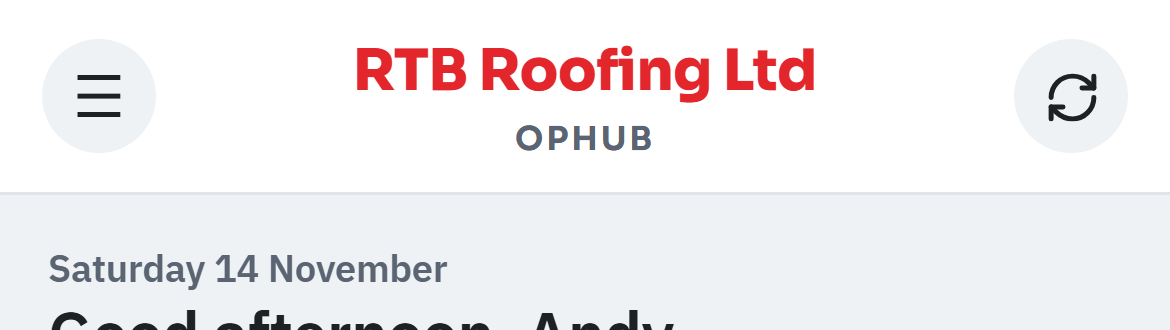
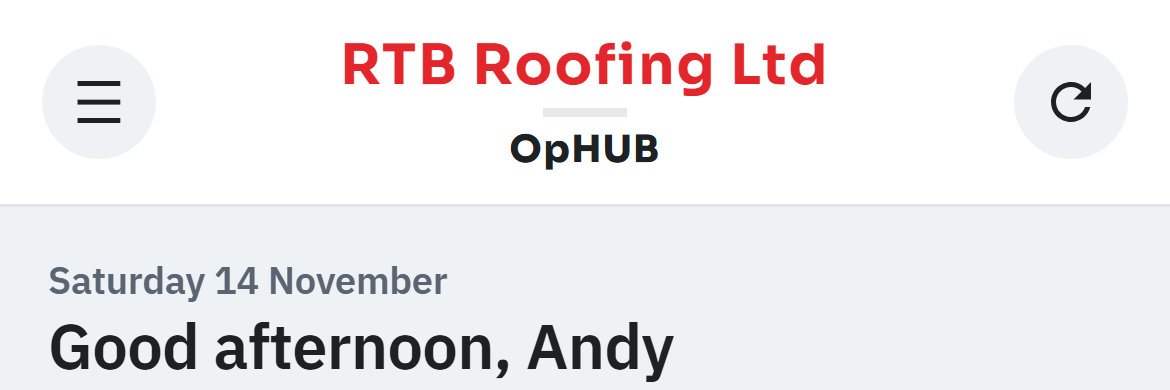
Home's header as the old app (Andy, 14 Nov: "Or design as per old app"). The company name in Sora 700 in its colour, a short grey line, then "OpHUB" in dark Sora 800, as the old app's home header (130 shell centerHeader), instead of "OPHUB" in grey capitals; the refresh button uses the old app's ref
Claude-Session: https://claude.ai/code/session_012KhfNvBEbifMJmPdX7yZfp

diff --git a/app-native/src/components/AppBar.tsx b/app-native/src/components/AppBar.tsx
@@ -192,8 +192,13 @@ export function AppBar({ title, onBack, home, right, noHistory }: { title?: stri
             )}
           </View>
           <View style={{ flex: 1, alignItems: fin ? 'flex-start' : 'center', minWidth: 0 }}>
-            <Pressable disabled={!titleGo} onPress={() => { if (titleGo) router.navigate(titleGo as never); }} accessibilityRole={titleGo ? 'link' : undefined} style={noSelect}><Text numberOfLines={1} style={[brand(home ? 800 : 700), { fontSize: fin ? 21 : desk ? 22.8 : 19, color: home ? t.brand1 : fin ? '#111827' : base.ink, letterSpacing: -0.2 }]}>{main}</Text></Pressable>
-            {!!sub && <Pressable disabled={!copyable} onPress={async () => { if (await copyAddress(copyLine)) { setCopied(true); setTimeout(() => setCopied(false), 1300); } }} accessibilityRole={copyable ? 'button' : undefined} accessibilityHint={copyable ? 'Copies the site name and address' : undefined} style={noSelect}><Text numberOfLines={1} style={[home ? brand(700) : {}, { fontSize: home ? 11 : 12.5, color: home ? base.slate : '#6b7280', marginTop: 3, letterSpacing: home ? 1 : 0, textTransform: home ? 'uppercase' : 'none' }]}>{sub}</Text></Pressable>}
+            <Pressable disabled={!titleGo} onPress={() => { if (titleGo) router.navigate(titleGo as never); }} accessibilityRole={titleGo ? 'link' : undefined} style={noSelect}><Text numberOfLines={1} style={[brand(700), home
+              // Home as the old app (130 shell centerHeader; Andy, 14 Nov 2026): the company name in Sora 700 in its colour,
+              // a short grey line, then "OpHUB" in dark Sora 800 (not grey capitals).
+              ? { fontSize: desk ? 21.4 : 18.5, color: t.brand1, letterSpacing: 0.7 }
+              : { fontSize: fin ? 21 : desk ? 22.8 : 19, color: fin ? '#111827' : base.ink, letterSpacing: -0.2 }]}>{main}</Text></Pressable>
+            {home && <View style={{ width: 28, height: 2.5, backgroundColor: '#E6E8EC', marginTop: 3, marginBottom: 2 }} />}
+            {!!sub && <Pressable disabled={!copyable} onPress={async () => { if (await copyAddress(copyLine)) { setCopied(true); setTimeout(() => setCopied(false), 1300); } }} accessibilityRole={copyable ? 'button' : undefined} accessibilityHint={copyable ? 'Copies the site name and address' : undefined} style={noSelect}><Text numberOfLines={1} style={home ? [brand(800), { fontSize: desk ? 14.25 : 12.5, color: base.ink, marginTop: 1, letterSpacing: 0.5 }] : { fontSize: 12.5, color: '#6b7280', marginTop: 3 }}>{sub}</Text></Pressable>}
             {copied && <View pointerEvents="none" style={{ position: 'absolute', bottom: -8, alignSelf: 'center', backgroundColor: base.ink, borderRadius: 10, paddingHorizontal: 9, paddingVertical: 2, zIndex: 5 }}><Text style={{ color: '#fff', fontSize: 11, fontWeight: '600' }}>Copied</Text></View>}
           </View>
           <View style={{ minWidth: sideW, alignItems: 'flex-end' }}>

diff --git a/tools/test-harness/refresh-check.js b/tools/test-harness/refresh-check.js
@@ -1,5 +1,6 @@
 // Home's refresh button, top right (Andy, 14 Nov 2026: "Does the refresh button top right work. Also make it a better
-// symbol"): the two-arrow icon (not the ↻ character), it turns while it works, it fetches the screen again (new data
+// symbol" / "Or design as per old app"): the header as the old app (the company name, a short line, then "OpHUB" in
+// dark bold), the old app's refresh arrow (not the ↻ character), it turns while it works, it fetches the screen again (new data
 // shows), and on the web link it reloads the page when a newer version has gone live, but not when it hasn't.
 // Touch phone, fake database. node refresh-check.js
 const {chromium, makeContext} = require('./harness');
@@ -20,10 +21,15 @@ const check = (ok, what) => { console.log((ok ? 'PASS ' : 'FAIL ') + what); if (
 
   const btn = page.locator('[aria-label="Refresh"] >> visible=true').first();
   check(await btn.count() === 1, 'home: the refresh button is there, top right');
-  check(await btn.locator('svg').count() === 1 && !(await btn.innerText()).includes('↻'), 'it is the two-arrow icon, not the ↻ character');
+  const d = (await btn.locator('path').first().getAttribute('d')) || '';
+  check(await btn.locator('svg').count() === 1 && !(await btn.innerText()).includes('↻') && d.startsWith('M17.65 6.35'), 'it is the old app\'s refresh arrow, not the ↻ character');
+  const bar = await page.evaluate(() => { const el = [...document.querySelectorAll('div')].find((x) => x.childElementCount === 0 && x.innerText === 'OpHUB'); return el ? {font: getComputedStyle(el).fontFamily, weight: getComputedStyle(el).fontWeight, colour: getComputedStyle(el).color} : null; });
+  check(!!bar && /Sora/.test(bar.font) && bar.weight === '800' && bar.colour === 'rgb(30, 33, 36)', `header: "OpHUB" in dark bold Sora, not grey capitals (${JSON.stringify(bar)})`);
+  const top = (await page.locator('body').innerText()).slice(0, 60);
+  check(!/OPHUB/.test(top), 'no "OPHUB" in capitals');
   const box = await btn.boundingBox();
   check(!!box && box.x > 300 && box.y < 120, `top right (${box && Math.round(box.x)}, ${box && Math.round(box.y)})`);
-  await page.screenshot({path: path.join(SHOTS, 'home-refresh.png'), clip: {x: 0, y: 0, width: 390, height: 110}});
+  await page.screenshot({path: path.join(SHOTS, 'home-refresh.png'), clip: {x: 0, y: 0, width: 390, height: 130}});
 
   // New data appears after a tap: a new live project.
   const before = await page.locator('body').innerText();

diff --git a/app-native/src/components/RefreshButton.tsx b/app-native/src/components/RefreshButton.tsx
@@ -1,12 +1,13 @@
 // Home's refresh button, top right (Andy, 14 Nov 2026: "Does the refresh button top right work. Also make it a better
-// symbol"). It always fetched everything on the screen again, but nothing showed it had. Now it's the two-arrow refresh
-// icon, which turns while it fetches; and on the web link it also checks whether a newer version of the app has gone
-// live and, if so, reloads the page, so a phone isn't left on an old copy.
+// symbol" / "Or design as per old app"). It always fetched everything on the screen again, but nothing showed it had.
+// Now it's the old app's refresh arrow (130 shell, showRefresh), which turns while it fetches; and on the web link it
+// also checks whether a newer version of the app has gone live and, if so, reloads the page, so a phone isn't left on
+// an old copy.
 import { useQueryClient } from '@tanstack/react-query';
 import { useEffect, useRef, useState } from 'react';
 import { Animated, Easing, Platform, Pressable } from 'react-native';
+import Svg, { Path } from 'react-native-svg';
 
-import { OphIcon } from '@/components/OphIcon';
 import { base } from '@/theme/theme';
 
 /** The build this page is running, stamped into the page by tools/beta/make-beta.js ('' on the dev server). */
@@ -50,7 +51,9 @@ export function RefreshButton({ style }: { style: object }) {
   return (
     <Pressable onPress={() => void go()} hitSlop={10} accessibilityRole="button" accessibilityLabel="Refresh" accessibilityState={{ busy }} style={style}>
       <Animated.View style={{ transform: [{ rotate }] }}>
-        <OphIcon name="refresh" size={19} color={base.ink} stroke={2.1} />
+        <Svg width={20} height={20} viewBox="0 0 24 24" fill={base.ink}>
+          <Path d="M17.65 6.35A7.958 7.958 0 0012 4c-4.42 0-7.99 3.58-7.99 8s3.57 8 7.99 8c3.73 0 6.84-2.55 7.73-6h-2.08c-.82 2.33-3.04 4-5.65 4-3.31 0-6-2.69-6-6s2.69-6 6-6c1.66 0 3.14.69 4.22 1.78L13 11h7V4l-2.35 2.35z" />
+        </Svg>
       </Animated.View>
     </Pressable>
   );

diff --git a/app-native/src/components/OphIcon.tsx b/app-native/src/components/OphIcon.tsx
@@ -42,10 +42,7 @@ const I: Record<string, El[]> = {
   eye: [['p','M2 12s3.5-7 10-7 10 7 10 7-3.5 7-10 7-10-7-10-7z'],['c',12,12,3]],
   hash: [['p','M5 9h15M4 15h15M10 3L8 21M16 3l-2 18']],
   percent: [['p','M19 5L5 19'],['c',7,7,2.5],['c',17,17,2.5]],
-  bin: [['p','M3 6h18M8 6V4h8v2M6 6l1 14h10l1-14M10 11v6M14 11v6']],
-  // Two arrows chasing round (Home's refresh button, 14 Nov 2026).
-  refresh: [['p','M3 12a9 9 0 0 1 9-9 9.75 9.75 0 0 1 6.74 2.74L21 8'],['p','M21 3v5h-5'],['p','M21 12a9 9 0 0 1-9 9 9.75 9.75 0 0 1-6.74-2.74L3 16'],['p','M8 16H3v5']],
-};
+  bin: [['p','M3 6h18M8 6V4h8v2M6 6l1 14h10l1-14M10 11v6M14 11v6']],};
 export type IconName = keyof typeof I;
 
 export function OphIcon({ name, size = 22, color = '#1E2124', stroke = 2 }: { name: string; size?: number; color?: string; stroke?: number }) {
